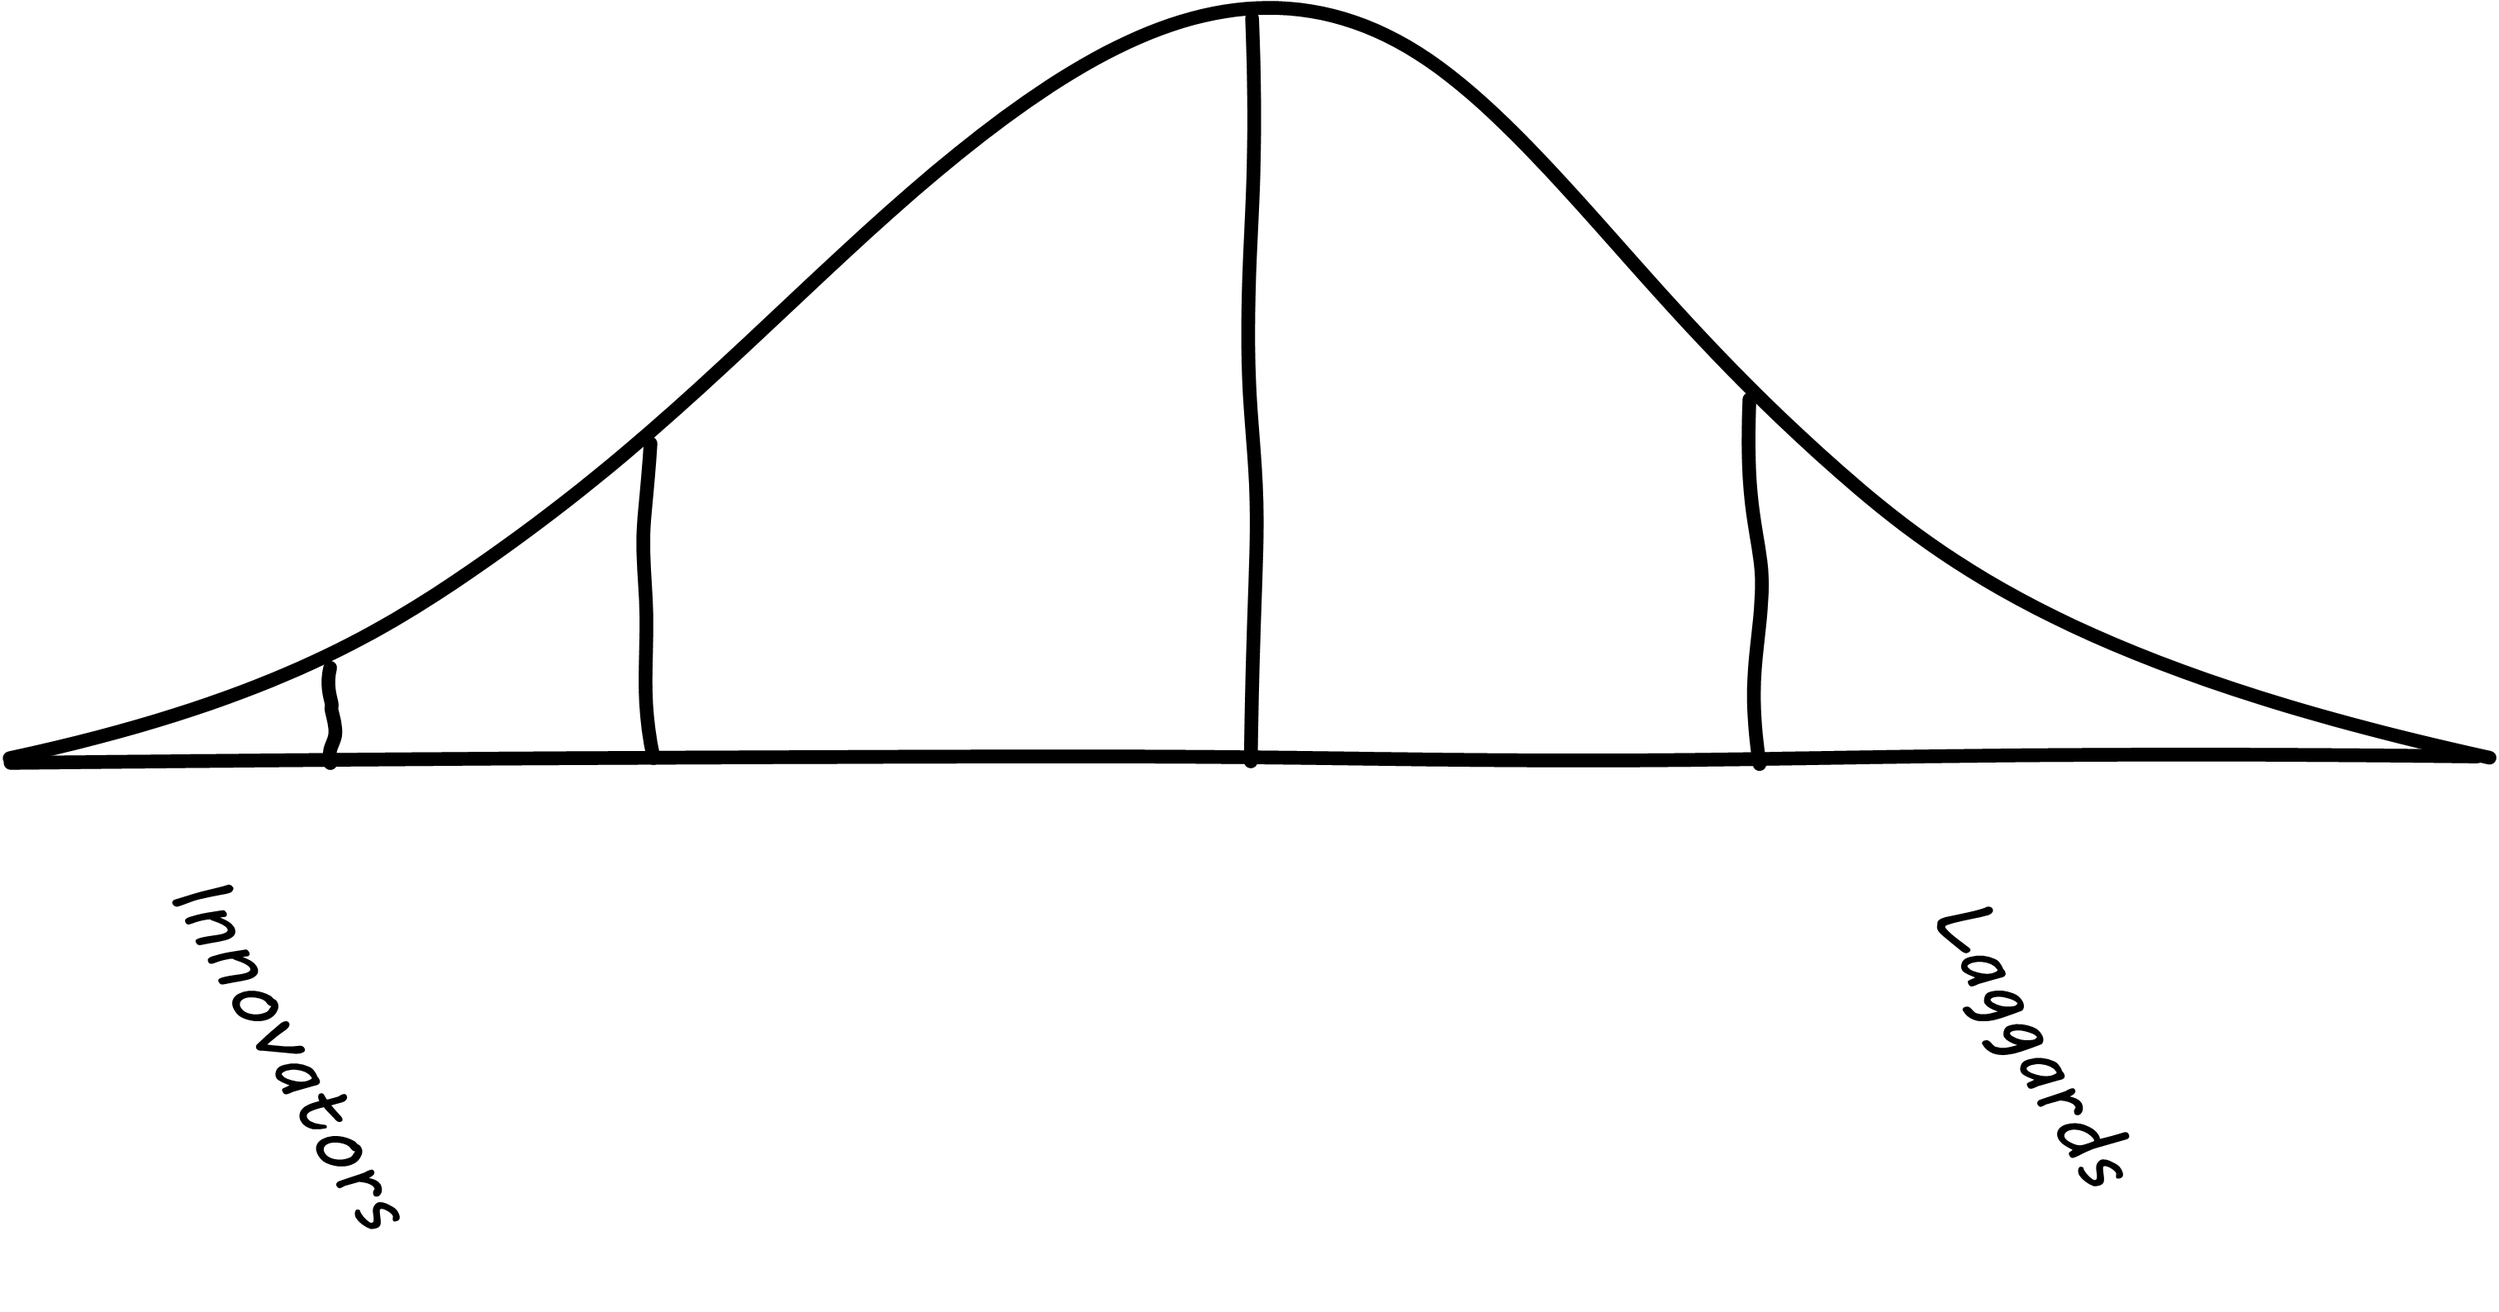
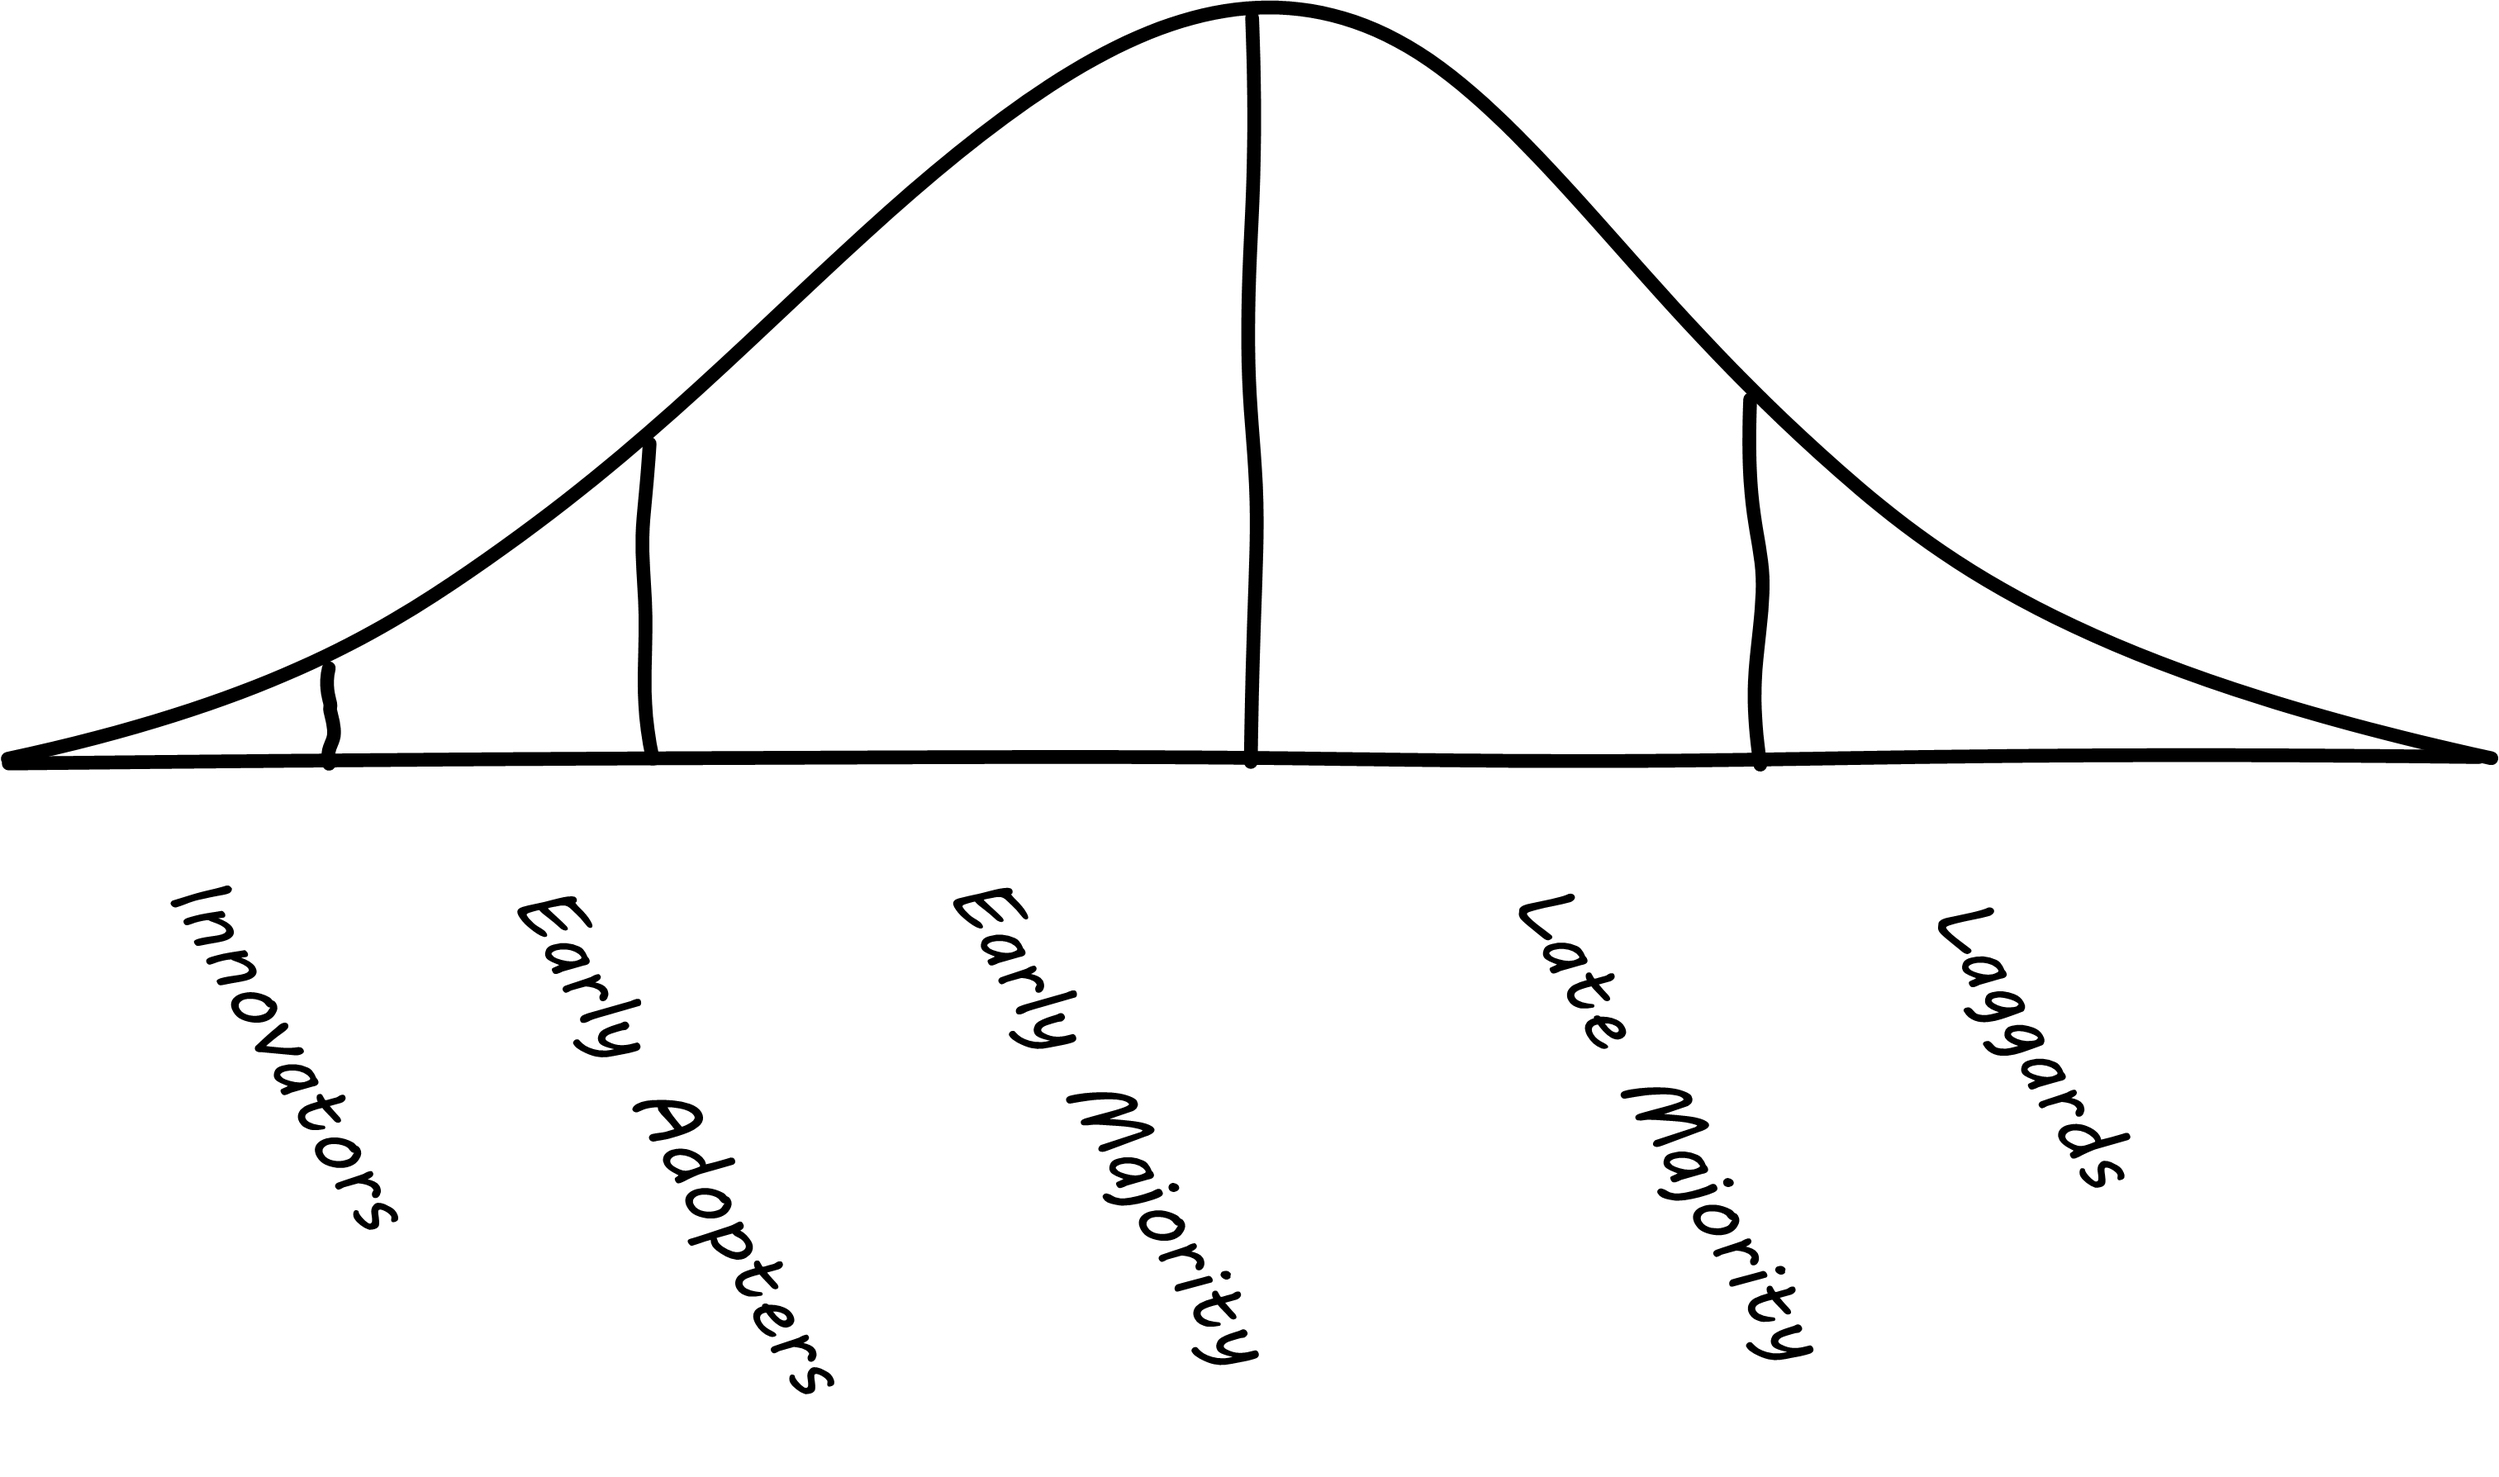
commit

diff --git a/aitm-collaborator.html b/aitm-collaborator.html
@@ -6506,24 +6506,71 @@ The term "intrapreneurship" means "entrepreneurship inside a large company."
 </div>
 </div>
 <div class="paragraph">
-<p>As you start to think about digital value, you must think about the context for your startup or product idea. A well known approach for this is the idea of the "diffusion theory," first researched by Everett Rogers <a href="#Rogers2003">[Rogers2003]</a> and popularized by Geoffrey Moore <a href="#Moore2014">[Moore2014]</a> in his bestseller <em>Crossing the Chasm</em>.</p>
+<p>As you start to think about digital value, you must think about the context for your startup or product idea. A well known approach for this is the idea of the "diffusion theory," first researched by Everett Rogers and proposed in his <em>Diffusion of Innovations,</em> <a href="#Rogers2003">[Rogers2003]</a>.</p>
 </div>
 <div class="paragraph">
-<p>The best known vis</p>
+<p>Rogers' research proposed the idea of "Adopter Categorization on the Basis of Innovativeness," with a well-known graphic:</p>
 </div>
 <div class="paragraph">
-<p>technology evolution - context - Wardley, Everett Rodgers diffusion theory</p>
+<p><span class="image"><img src="images/2.04-adoption.png" alt="2.04-adoption"></span>
+<em>Technology adoption categories, similar to <a href="#Rogers2003">[Rogers2003]</a>, figure 7-3, page 281.</em></p>
 </div>
 <div class="paragraph">
-<p>you can&#8217;t fully understand the context without feedback</p>
+<p>Rogers went on to characterize the various stages:</p>
+</div>
+<div class="ulist">
+<ul>
+<li>
+<p>Innovators: Venturesome risk-takers</p>
+</li>
+<li>
+<p>Early adopters: Opinion leaders</p>
+</li>
+<li>
+<p>Early majority: Deliberative, numerous</p>
+</li>
+<li>
+<p>Late majority: Skeptical, also numerous</p>
+</li>
+<li>
+<p>Laggards: Traditional, isolated, conservative</p>
+</li>
+</ul>
 </div>
 <div class="paragraph">
-<p>Startups that are entering an existing market
-Startups that are creating an entirely new market
-Startups that want to resegment an existing market as a low-cost entrant Startups that want to resegment an existing market as a niche player</p>
+<p>The above figure was popularized in the following variation by Geoffrey Moore <a href="#Moore2014">[Moore2014]</a> in his bestseller <em>Crossing the Chasm</em>:</p>
+</div>
+<div class="paragraph">
+<p><span class="image"><img src="images/2.04-chasm.png" alt="2.04-chasm"></span>
+<em>Purported "chasm" between adopter categories, similar to <a href="#Moore2004">[Moore2004]</a>, page 21.</em></p>
+</div>
+<div class="paragraph">
+<p>You&#8217;ll see this diagram often, but you should be aware that Rogers himself (the person who has researched the data) says that (p.282)</p>
+</div>
+<div class="paragraph">
+<p><em>Past research shows no support for this claim of a “chasm” between certain adopter categories. On the contrary, innovativeness, if measured properly, is a continuous variable and there are no sharp breaks or discontinuities between adjacent adopter categories (although there are important differences between them)</em>.</p>
+</div>
+<div class="ulist">
+<ul>
+<li>
+<p>Startups that are entering an existing market</p>
+</li>
+<li>
+<p>Startups that are creating an entirely new market</p>
+</li>
+<li>
+<p>Startups that want to resegment an existing market as a low-cost entrant</p>
+</li>
+<li>
+<p>Startups that want to resegment an existing market as a niche player</p>
+</li>
+</ul>
 </div>
 <div class="paragraph">
 <p>Blank, Steve (2013-10-02). The Four Steps to the Epiphany (p. 31). K&amp;S Ranch. Kindle Edition.</p>
+</div>
+<div class="paragraph">
+<p>you can&#8217;t fully understand the context without feedback</p>
 </div>
 <div class="sect5">
 <h6 id="_discovery_versus_design">Discovery versus design</h6>

diff --git a/aitm-instructor.html b/aitm-instructor.html
@@ -6423,24 +6423,71 @@ The term "intrapreneurship" means "entrepreneurship inside a large company."
 </div>
 </div>
 <div class="paragraph">
-<p>As you start to think about digital value, you must think about the context for your startup or product idea. A well known approach for this is the idea of the "diffusion theory," first researched by Everett Rogers <a href="#Rogers2003">[Rogers2003]</a> and popularized by Geoffrey Moore <a href="#Moore2014">[Moore2014]</a> in his bestseller <em>Crossing the Chasm</em>.</p>
+<p>As you start to think about digital value, you must think about the context for your startup or product idea. A well known approach for this is the idea of the "diffusion theory," first researched by Everett Rogers and proposed in his <em>Diffusion of Innovations,</em> <a href="#Rogers2003">[Rogers2003]</a>.</p>
 </div>
 <div class="paragraph">
-<p>The best known vis</p>
+<p>Rogers' research proposed the idea of "Adopter Categorization on the Basis of Innovativeness," with a well-known graphic:</p>
 </div>
 <div class="paragraph">
-<p>technology evolution - context - Wardley, Everett Rodgers diffusion theory</p>
+<p><span class="image"><img src="images/2.04-adoption.png" alt="2.04-adoption"></span>
+<em>Technology adoption categories, similar to <a href="#Rogers2003">[Rogers2003]</a>, figure 7-3, page 281.</em></p>
 </div>
 <div class="paragraph">
-<p>you can&#8217;t fully understand the context without feedback</p>
+<p>Rogers went on to characterize the various stages:</p>
+</div>
+<div class="ulist">
+<ul>
+<li>
+<p>Innovators: Venturesome risk-takers</p>
+</li>
+<li>
+<p>Early adopters: Opinion leaders</p>
+</li>
+<li>
+<p>Early majority: Deliberative, numerous</p>
+</li>
+<li>
+<p>Late majority: Skeptical, also numerous</p>
+</li>
+<li>
+<p>Laggards: Traditional, isolated, conservative</p>
+</li>
+</ul>
 </div>
 <div class="paragraph">
-<p>Startups that are entering an existing market
-Startups that are creating an entirely new market
-Startups that want to resegment an existing market as a low-cost entrant Startups that want to resegment an existing market as a niche player</p>
+<p>The above figure was popularized in the following variation by Geoffrey Moore <a href="#Moore2014">[Moore2014]</a> in his bestseller <em>Crossing the Chasm</em>:</p>
+</div>
+<div class="paragraph">
+<p><span class="image"><img src="images/2.04-chasm.png" alt="2.04-chasm"></span>
+<em>Purported "chasm" between adopter categories, similar to <a href="#Moore2004">[Moore2004]</a>, page 21.</em></p>
+</div>
+<div class="paragraph">
+<p>You&#8217;ll see this diagram often, but you should be aware that Rogers himself (the person who has researched the data) says that (p.282)</p>
+</div>
+<div class="paragraph">
+<p><em>Past research shows no support for this claim of a “chasm” between certain adopter categories. On the contrary, innovativeness, if measured properly, is a continuous variable and there are no sharp breaks or discontinuities between adjacent adopter categories (although there are important differences between them)</em>.</p>
+</div>
+<div class="ulist">
+<ul>
+<li>
+<p>Startups that are entering an existing market</p>
+</li>
+<li>
+<p>Startups that are creating an entirely new market</p>
+</li>
+<li>
+<p>Startups that want to resegment an existing market as a low-cost entrant</p>
+</li>
+<li>
+<p>Startups that want to resegment an existing market as a niche player</p>
+</li>
+</ul>
 </div>
 <div class="paragraph">
 <p>Blank, Steve (2013-10-02). The Four Steps to the Epiphany (p. 31). K&amp;S Ranch. Kindle Edition.</p>
+</div>
+<div class="paragraph">
+<p>you can&#8217;t fully understand the context without feedback</p>
 </div>
 <div class="sect5">
 <h6 id="_discovery_versus_design">Discovery versus design</h6>

diff --git a/index.html b/index.html
@@ -6170,24 +6170,71 @@ The term "intrapreneurship" means "entrepreneurship inside a large company."
 </div>
 </div>
 <div class="paragraph">
-<p>As you start to think about digital value, you must think about the context for your startup or product idea. A well known approach for this is the idea of the "diffusion theory," first researched by Everett Rogers <a href="#Rogers2003">[Rogers2003]</a> and popularized by Geoffrey Moore <a href="#Moore2014">[Moore2014]</a> in his bestseller <em>Crossing the Chasm</em>.</p>
+<p>As you start to think about digital value, you must think about the context for your startup or product idea. A well known approach for this is the idea of the "diffusion theory," first researched by Everett Rogers and proposed in his <em>Diffusion of Innovations,</em> <a href="#Rogers2003">[Rogers2003]</a>.</p>
 </div>
 <div class="paragraph">
-<p>The best known vis</p>
+<p>Rogers' research proposed the idea of "Adopter Categorization on the Basis of Innovativeness," with a well-known graphic:</p>
 </div>
 <div class="paragraph">
-<p>technology evolution - context - Wardley, Everett Rodgers diffusion theory</p>
+<p><span class="image"><img src="images/2.04-adoption.png" alt="2.04-adoption"></span>
+<em>Technology adoption categories, similar to <a href="#Rogers2003">[Rogers2003]</a>, figure 7-3, page 281.</em></p>
 </div>
 <div class="paragraph">
-<p>you can&#8217;t fully understand the context without feedback</p>
+<p>Rogers went on to characterize the various stages:</p>
+</div>
+<div class="ulist">
+<ul>
+<li>
+<p>Innovators: Venturesome risk-takers</p>
+</li>
+<li>
+<p>Early adopters: Opinion leaders</p>
+</li>
+<li>
+<p>Early majority: Deliberative, numerous</p>
+</li>
+<li>
+<p>Late majority: Skeptical, also numerous</p>
+</li>
+<li>
+<p>Laggards: Traditional, isolated, conservative</p>
+</li>
+</ul>
 </div>
 <div class="paragraph">
-<p>Startups that are entering an existing market
-Startups that are creating an entirely new market
-Startups that want to resegment an existing market as a low-cost entrant Startups that want to resegment an existing market as a niche player</p>
+<p>The above figure was popularized in the following variation by Geoffrey Moore <a href="#Moore2014">[Moore2014]</a> in his bestseller <em>Crossing the Chasm</em>:</p>
+</div>
+<div class="paragraph">
+<p><span class="image"><img src="images/2.04-chasm.png" alt="2.04-chasm"></span>
+<em>Purported "chasm" between adopter categories, similar to <a href="#Moore2004">[Moore2004]</a>, page 21.</em></p>
+</div>
+<div class="paragraph">
+<p>You&#8217;ll see this diagram often, but you should be aware that Rogers himself (the person who has researched the data) says that (p.282)</p>
+</div>
+<div class="paragraph">
+<p><em>Past research shows no support for this claim of a “chasm” between certain adopter categories. On the contrary, innovativeness, if measured properly, is a continuous variable and there are no sharp breaks or discontinuities between adjacent adopter categories (although there are important differences between them)</em>.</p>
+</div>
+<div class="ulist">
+<ul>
+<li>
+<p>Startups that are entering an existing market</p>
+</li>
+<li>
+<p>Startups that are creating an entirely new market</p>
+</li>
+<li>
+<p>Startups that want to resegment an existing market as a low-cost entrant</p>
+</li>
+<li>
+<p>Startups that want to resegment an existing market as a niche player</p>
+</li>
+</ul>
 </div>
 <div class="paragraph">
 <p>Blank, Steve (2013-10-02). The Four Steps to the Epiphany (p. 31). K&amp;S Ranch. Kindle Edition.</p>
+</div>
+<div class="paragraph">
+<p>you can&#8217;t fully understand the context without feedback</p>
 </div>
 <div class="sect5">
 <h6 id="_discovery_versus_design">Discovery versus design</h6>
